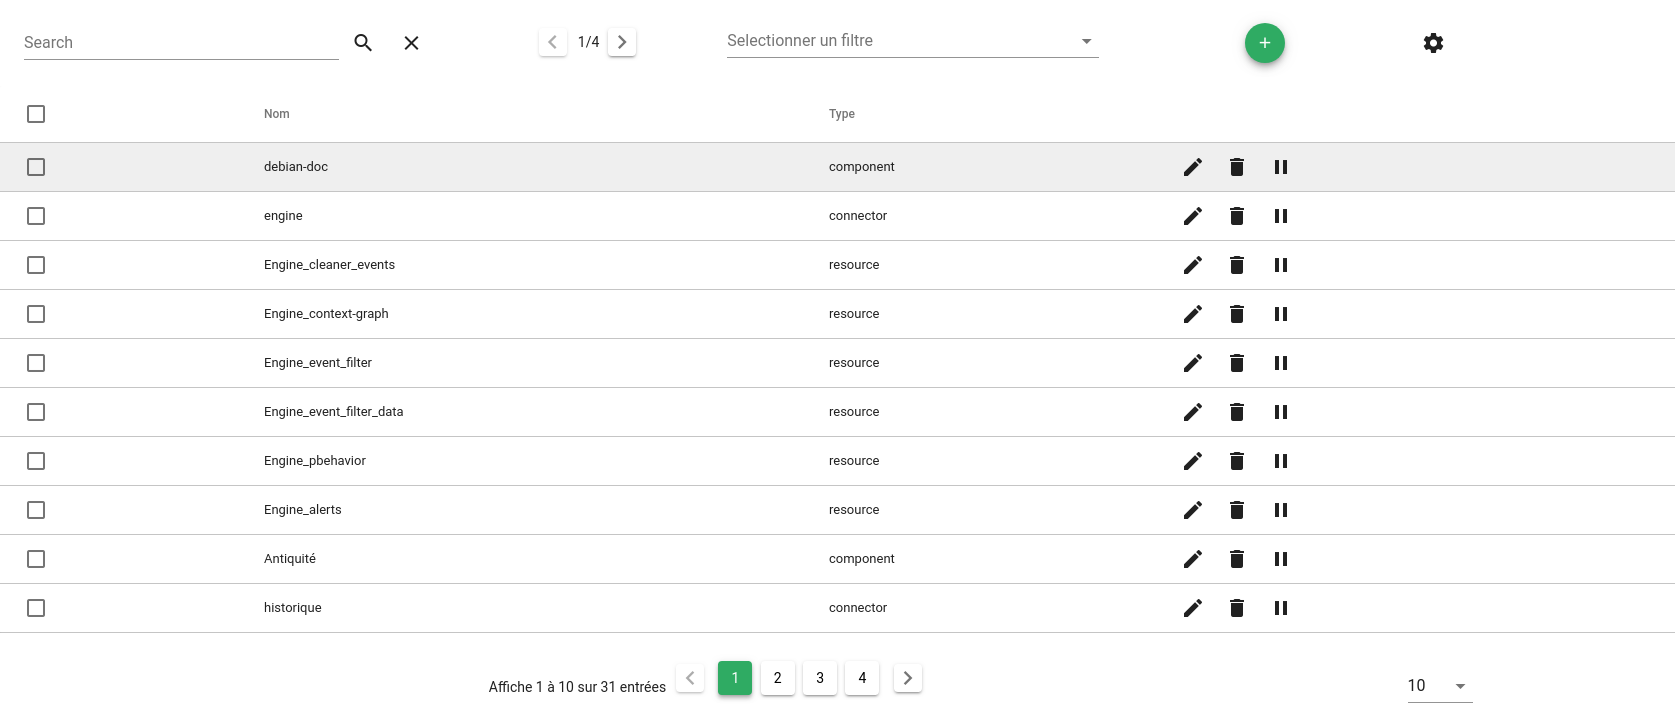
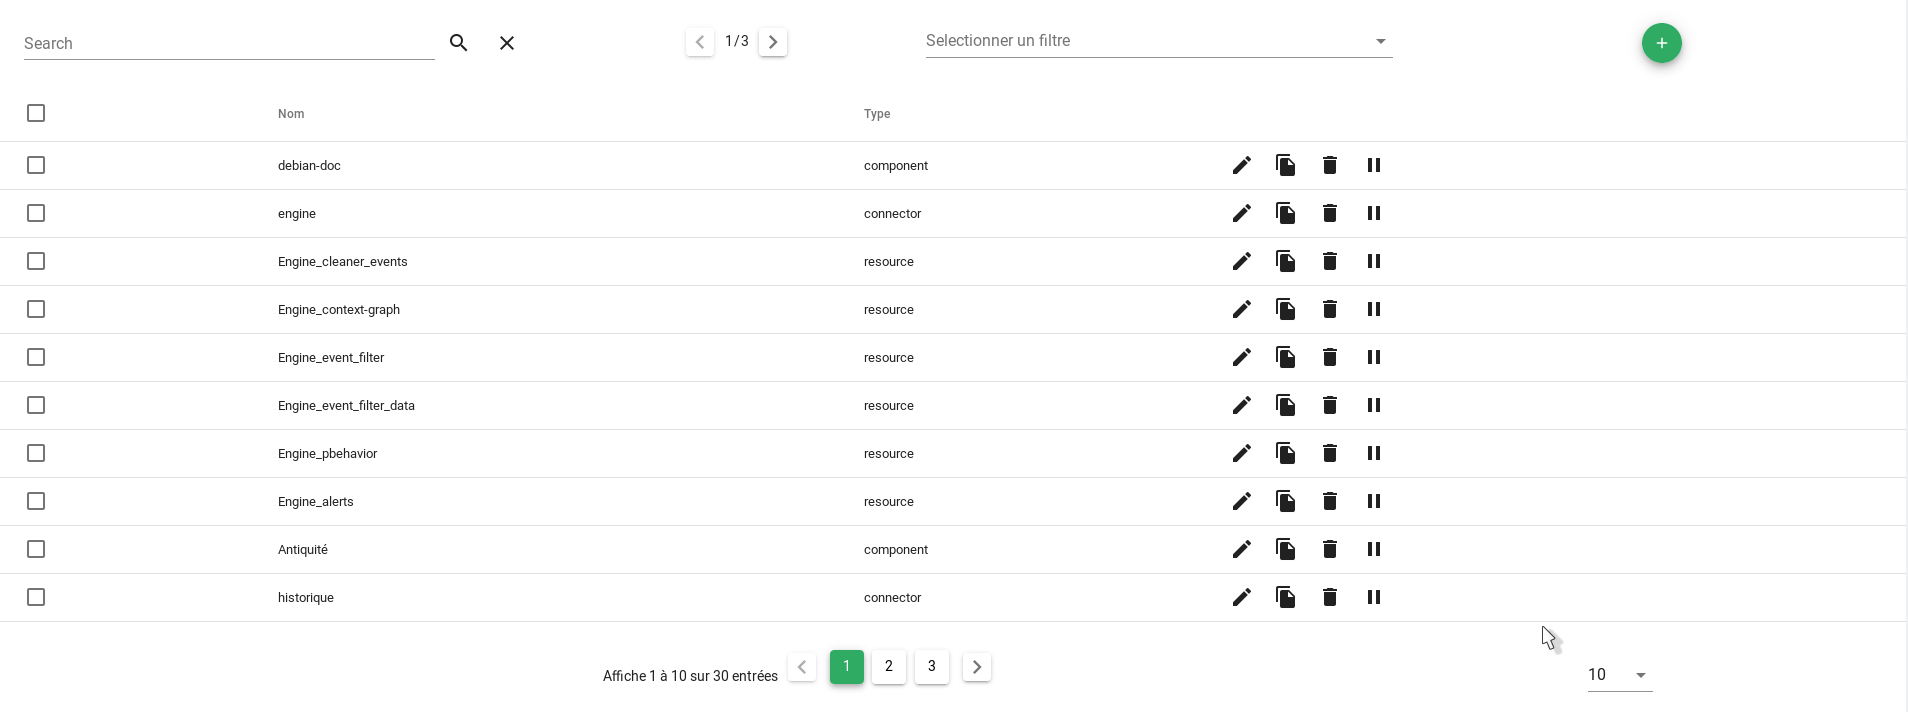
doc(ui-clone-entities-action): Added doc for entity Clone action on context explorer

diff --git a/sources/docs/fr/guide-utilisation/interface/widgets/contexte/index.md b/sources/docs/fr/guide-utilisation/interface/widgets/contexte/index.md
@@ -8,7 +8,7 @@
 1. [Entités](#entites)
 2. [Recherche](#recherche)
 3. [Filtres](#filtres)
-4. [Création d'entités et d'observateurs](#creation-dentites-et-dobservateurs)
+4. [Création/Edition/Duplication d'entités et d'observateurs](#creationeditionduplication-dentites-et-dobservateurs)
 5. [Actions](#actions)
 6. [Comportements périodiques](#comportements-periodiques)
 
@@ -32,9 +32,9 @@ Le champ de recherche permet d'effectuer une recherche parmi les alarmes.
 
 ![Champ de recherche](../../recherche/img/champ-recherche.png "Champ de recherche")
 
-Pour effectuer une recherche 'simple', il suffit d'entrer les termes de la recherche dans le champs de texte, puis d'appuyer sur la touche Entrée, ou de cliquer sur l'icone ![Icone recherche](../../recherche/img/search-icon.png "Icone recherche").
+Pour effectuer une recherche 'simple', il suffit d'entrer les termes de la recherche dans le champs de texte, puis d'appuyer sur la touche Entrée, ou de cliquer sur l'icône ![Icône recherche](../../recherche/img/search-icon.png "Icône recherche").
 
-Pour supprimer la recherche, cliquez sur l'icone ![Icone suppression recherche](../../recherche/img/delete-search-icon.png "Icone suppression recherche").
+Pour supprimer la recherche, cliquez sur l'icône ![Icône suppression recherche](../../recherche/img/delete-search-icon.png "Icône suppression recherche").
 
 ### Filtres
 
@@ -44,22 +44,22 @@ Le sélecteur de filtre permet d'appliquer un filtre sur l'Explorateur de contex
 
 Pour sélectionner un filtre, il suffit de cliquer sur le champs 'Sélectionner un filtre'. Une liste des filtres disponibles apparaît.
 Cliquez sur un filtre. Celui-ci est sélectionné, et directement appliqué.
-Pour ne plus appliquer de filtre, il suffit de cliquer sur l'icone présent au bout du champ de sélection de filtre. L'explorateur de contexte se rafraichit, le champ de sélection revient dans état initial, le filtre n'est plus appliqué !
+Pour ne plus appliquer de filtre, il suffit de cliquer sur l'icône présent au bout du champ de sélection de filtre. L'explorateur de contexte se rafraichit, le champ de sélection revient dans état initial, le filtre n'est plus appliqué !
 
-### Création d'entités et d'observateurs
+### Création/Edition/Duplication d'entités et d'observateurs
 
 Depuis l'explorateur de contexte, il vous est possible de créer des entités et des observateurs.
 
-Pour accéder aux fenêtre de création, survoler le bouton ![Icone Création Entité / Observateur](./img/add-entity-button.png "Icone Création Entité / Observateur").
+Pour accéder aux fenêtre de création, survoler le bouton ![Icône Création Entité / Observateur](./img/add-entity-button.png "Icône Création Entité / Observateur").
 Au survol de ce bouton, un menu s'ouvre avec deux boutons disponibles.
 
-![Icones Création Entité / Observateur](./img/add-entity-button-hover.png "Icones Création Entité / Observateur").
+![Icônes Création Entité / Observateur](./img/add-entity-button-hover.png "Icônes Création Entité / Observateur").
 
-Le premier icone à gauche permet de créer une entité, le deuxième permet de créer un observateur.
+Le premier icône à gauche permet de créer une entité, le deuxième permet de créer un observateur.
 
 #### Création d'entité
 
-Au clique sur l'icone de création d'entité, une fenêtre s'ouvre.
+Au clique sur l'icône de création d'entité, une fenêtre s'ouvre.
 
 ![Formulaire création Entité](./img/entity-creation-form.png "Formulaire création Entité")
 
@@ -68,7 +68,7 @@ Le 1er onglet, 'Formulaire', vous demande de renseigner les informations princip
 - Description
 - Activé(e) : Définit si l'entité est activée, ou non.
 - Type (*requis*) : Définit le type d'entité (connecteur, composant ou ressource)
-- Impacts et Dépendances : Permet de définir les entités que l'entités que vous êtes en train de créer impactes, et celles dont elle dépend. Pour ajouter des entités dans une de ces liste, effectuer une recherche grâce au champ de recherche, puis cliquez sur l'icone ![Icone Ajout impact/dépendance](./img/add-impact-depends.png "Icone Ajout impact/dépendance"). La liste des entités sélectionnées apparaît au dessus du tableau d'entités utilisés pour ajouter des entités.
+- Impacts et Dépendances : Permet de définir les entités que l'entités que vous êtes en train de créer impactes, et celles dont elle dépend. Pour ajouter des entités dans une de ces liste, effectuer une recherche grâce au champ de recherche, puis cliquez sur l'icône ![Icône Ajout impact/dépendance](./img/add-impact-depends.png "Icône Ajout impact/dépendance"). La liste des entités sélectionnées apparaît au dessus du tableau d'entités utilisés pour ajouter des entités.
 
 Le 2ème onglet permet de gérer les infos contenues dans le champs 'infos' de l'entité. Les infos se composent d'un nom, d'une description et d'une valeur.
 Pour ajouter une information, remplissez les champs demandés, puis cliquez sur le bouton 'Ajouter'. L'information apparaît dans la liste située au dessus du formulaire.
@@ -78,8 +78,8 @@ Pour ajouter une information, remplissez les champs demandés, puis cliquez sur 
 Au clique sur une information dans la liste des infos, les détails de cette information apparaissent.
 Deux actions sont disponibles pour chaque information.
 
-- Editer : Permet d'éditer une information. Au clique sur l'icone ![Icone Editer infos](./img/edit-info-icon.png "Icone Editer infos"), le formulaire situé en dessous s'auto-complète avec les détails de l'information à éditer. Editez les informations, puis cliquez sur le bouton 'Ajouter'. Votre information est éditée.
-- Supprimer : Permet de supprimer une information. Il vous suffit de cliquer sur l'icone ![Icone Suppression info](./img/delete-info-icon.png "Icone Suppression infos"). Votre information a été supprimée !
+- Editer : Permet d'éditer une information. Au clique sur l'icône ![Icône Editer infos](./img/edit-info-icon.png "Icône Editer infos"), le formulaire situé en dessous s'auto-complète avec les détails de l'information à éditer. Editez les informations, puis cliquez sur le bouton 'Ajouter'. Votre information est éditée.
+- Supprimer : Permet de supprimer une information. Il vous suffit de cliquer sur l'icône ![Icône Suppression info](./img/delete-info-icon.png "Icône Suppression infos"). Votre information a été supprimée !
 
 Cliquez ensuite sur le bouton 'Envoyer' pour sauvegarder votre entité !
 
@@ -100,9 +100,10 @@ Cliquez ensuite sur le bouton 'Envoyer'. Votre observateur est créé !
 
 Pour chaque entité de l'explorateur de contexte, trois actions sont disponibles :
 
-- Editer : Au clic sur l'icone d'édition ![Icone Editer entité](./img/edit-entity-icon.png "Icone Editer entité"), une fenêtre s'ouvre. Celle-ci reprend les informations de l'entité ou de l'observateur (*Cf: [Création d'entités de d'observateur](#creation-dentites-et-dobservateurs)*). Après avoir modifié les informations souhaitées, cliquez sur 'Envoyer'. Une fenêtre vous informe que l'édition a été effectuée avec succès.
-- Supprimer : Permet de supprimer une entité/un observateur. Au clique sur l'icone de suppression ![Icone Supprimer entité](./img/delete-entity-icon.png "Icone Supprimer entité"), une fenêtre de confirmation s'ouvre. Cliquez sur 'Oui' pour confirmer la suppression de l'entité/de l'observateur. 
-- Ajouter un comportement périodique : Permet d'ajouter un comportement périodique à l'entité/à l'observateur. Au clique sur l'icone ![Icone Ajouter Pbehavior](./img/add-pbehavior-icon.png "Icone Ajouter Pbehavior"), une fenêtre de création de comportement périodique s'affiche. Pour plus d'information, voir : [Les comportement périodiques - Pbehaviors](../../pbehaviors/index.md).
+- **Editer** : Au clic sur l'icône d'édition ![Icône Editer entité](./img/edit-entity-icon.png "Icône Editer entité"), une fenêtre s'ouvre. Celle-ci reprend les informations de l'entité ou de l'observateur (*Cf: [Création d'entités de d'observateur](#creation-dentites-et-dobservateurs)*). Après avoir modifié les informations souhaitées, cliquez sur 'Envoyer'. Une fenêtre vous informe que l'édition a été effectuée avec succès.
+- **Dupliquer**: Au clic sur l'icône ![Icône Dupliquer entité](./img/duplicate-entity-icon.png "Icône Dupliquer entité"), une fenêtre s'ouvre. Celle-ci reprend les informations de l'entité ou de l'observateur que vous souhaitez dupliquer (*Cf: [Création d'entités de d'observateur](#creation-dentites-et-dobservateurs)*). Après avoir entré les informations souhaitées, cliquez sur 'Envoyer'. Une fenêtre vous informe qu'une nouvelle entité a été créée avec succès !
+- **Supprimer** : Permet de supprimer une entité/un observateur. Au clique sur l'icône de suppression ![icône Supprimer entité](./img/delete-entity-icon.png "icône Supprimer entité"), une fenêtre de confirmation s'ouvre. Cliquez sur 'Oui' pour confirmer la suppression de l'entité/de l'observateur. 
+- **Ajouter un comportement périodique** : Permet d'ajouter un comportement périodique à l'entité/à l'observateur. Au clique sur l'icône ![icône Ajouter Pbehavior](./img/add-pbehavior-icon.png "icône Ajouter Pbehavior"), une fenêtre de création de comportement périodique s'affiche. Pour plus d'information, voir : [Les comportement périodiques - Pbehaviors](../../pbehaviors/index.md).
 
 ### Comportements périodiques
 
@@ -110,9 +111,9 @@ Depuis l'explorateur de contexte, il est possible d'ajouter un comportement pér
 
 Pour plus de détails sur l'ajout de comportements périodiques, voir : [Les comportement périodiques - Pbehaviors](../../pbehaviors/index.md).
 
-Pour ajouter un comportement périodique sur un entité, cliquez sur l'icone ![Icone Ajouter Pbehavior](./img/add-pbehavior-icon.png "Icone Ajouter Pbehavior") sur la ligne de l'entité sur laquelle vous souhaitez ajouter le comportement.
+Pour ajouter un comportement périodique sur un entité, cliquez sur l'icône ![icône Ajouter Pbehavior](./img/add-pbehavior-icon.png "icône Ajouter Pbehavior") sur la ligne de l'entité sur laquelle vous souhaitez ajouter le comportement.
 
-Pour ajouter un comportement périodique sur une sélection d'entités, sélectionnez les entités en cochant les cases (présentes en début de ligne de chaque entités). Une fois une entité ou plus sélectionnées, deux icônes sont apparues en haut de l'explorateur de contexte. Le premier icone permet de supprimer toutes les entités sélectionnées, le deuxième permet d'ajouter un comportement périodique à ces entités. Cliquez sur le bouton ![Icone Ajouter Pbehavior](./img/add-pbehavior-icon.png "Icone Ajouter Pbehavior"). Une fenêtre de création de comportement périodique apparaît alors.
+Pour ajouter un comportement périodique sur une sélection d'entités, sélectionnez les entités en cochant les cases (présentes en début de ligne de chaque entités). Une fois une entité ou plus sélectionnées, deux icônes sont apparues en haut de l'explorateur de contexte. Le premier icône permet de supprimer toutes les entités sélectionnées, le deuxième permet d'ajouter un comportement périodique à ces entités. Cliquez sur le bouton ![icône Ajouter Pbehavior](./img/add-pbehavior-icon.png "icône Ajouter Pbehavior"). Une fenêtre de création de comportement périodique apparaît alors.
 
 ## Guide exploitant
 ### Paramètres du widget
